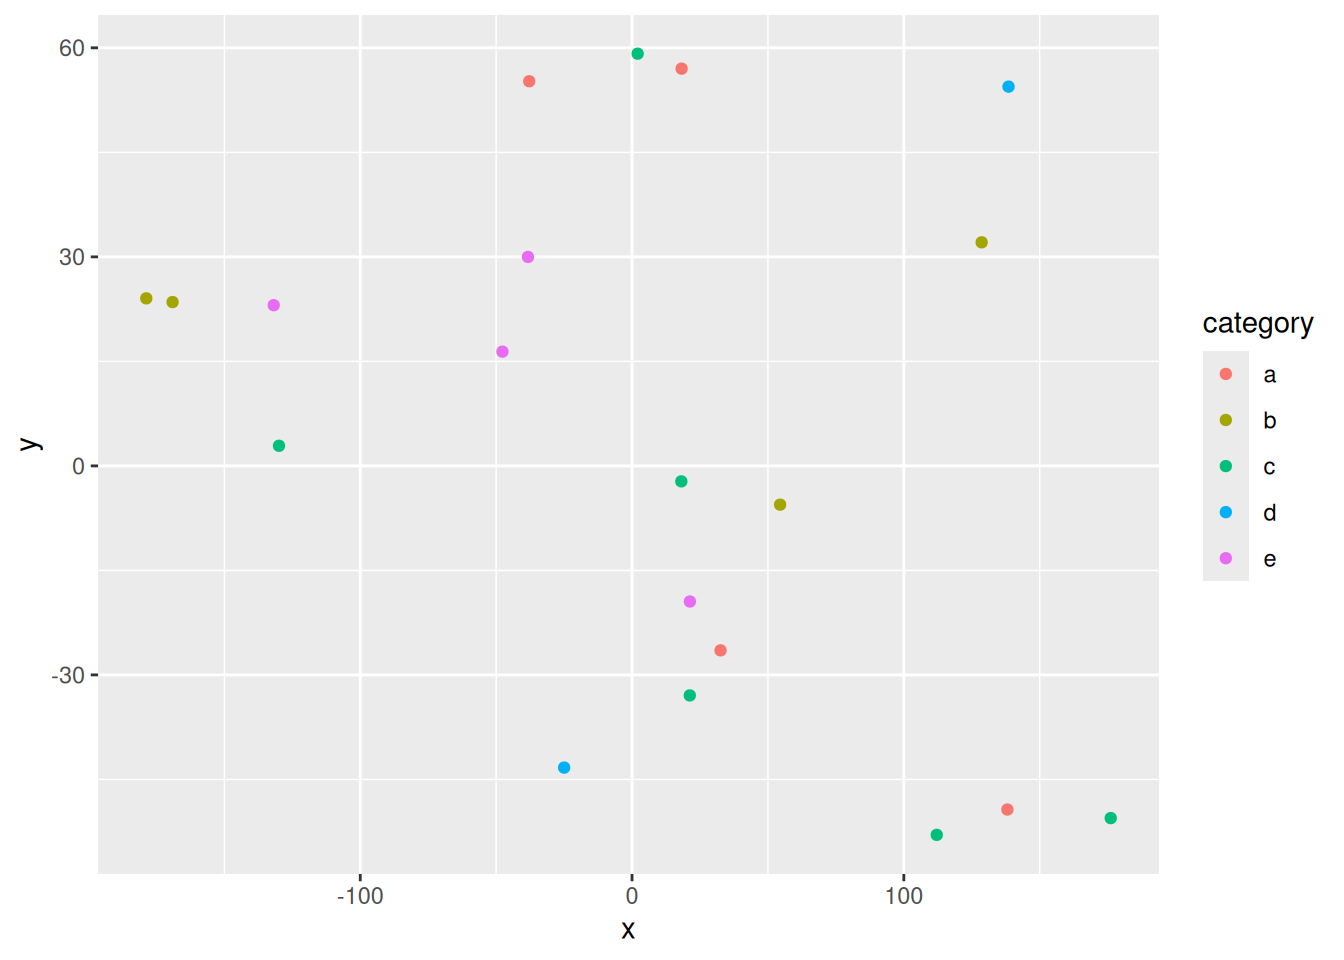
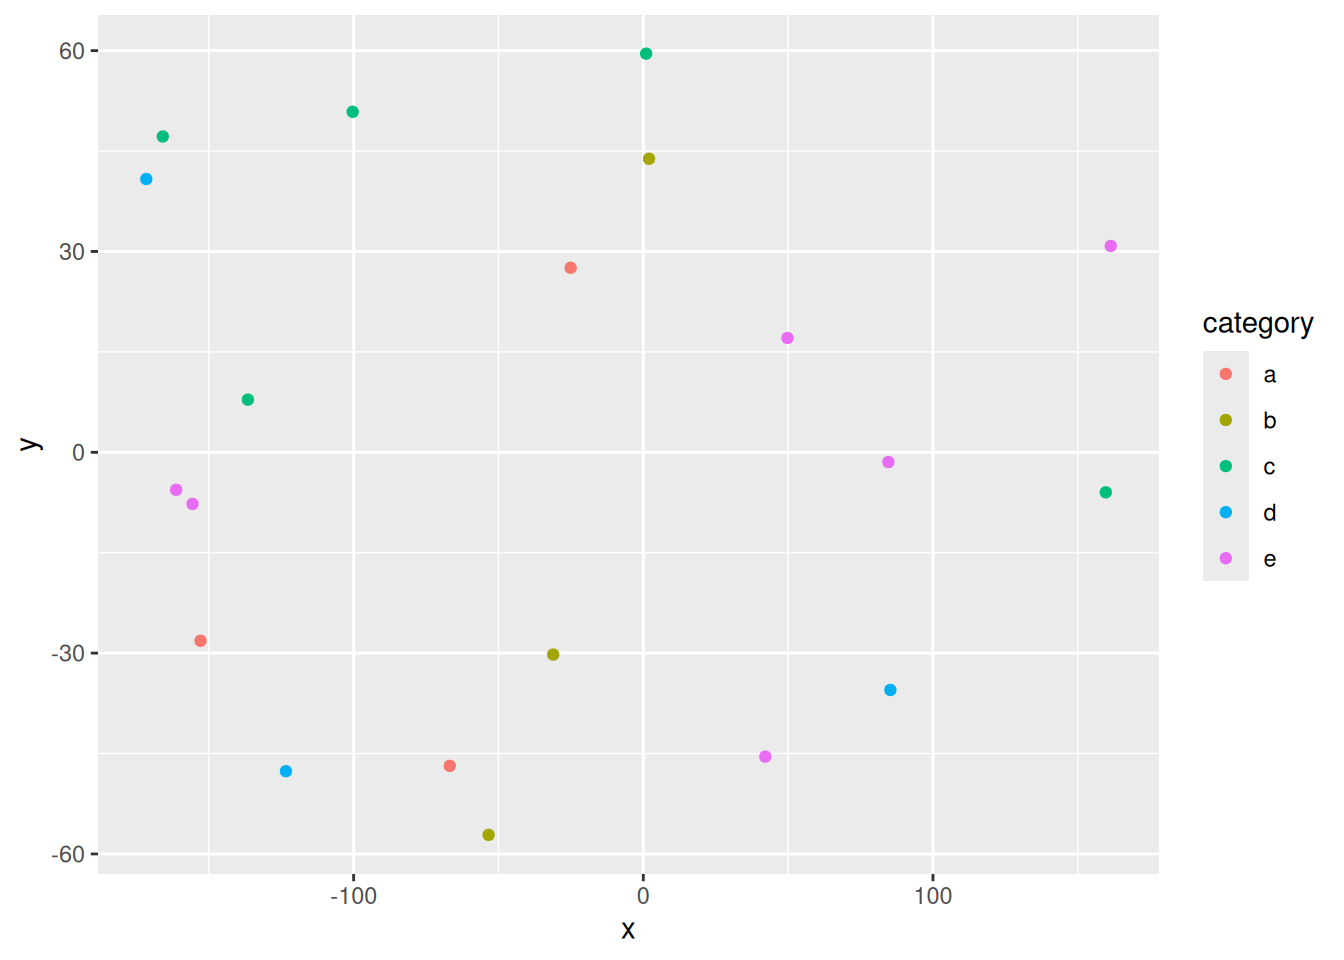
Built site for gh-pages

diff --git a/index.html b/index.html
@@ -272,74 +272,74 @@ pre > code.sourceCode > span > a:first-child::before { text-decoration: underlin
 </thead>
 <tbody>
 <tr class="odd">
-<td style="text-align: center;">-131.85</td>
-<td style="text-align: center;">23.06</td>
-<td style="text-align: center;">11.13</td>
-<td style="text-align: center;">e</td>
-<td style="text-align: center;">1.22</td>
+<td style="text-align: center;">-25.08</td>
+<td style="text-align: center;">27.56</td>
+<td style="text-align: center;">7.43</td>
+<td style="text-align: center;">a</td>
+<td style="text-align: center;">-0.61</td>
 </tr>
 <tr class="even">
-<td style="text-align: center;">128.64</td>
-<td style="text-align: center;">32.08</td>
-<td style="text-align: center;">18.22</td>
+<td style="text-align: center;">-165.89</td>
+<td style="text-align: center;">47.17</td>
+<td style="text-align: center;">10.77</td>
+<td style="text-align: center;">c</td>
+<td style="text-align: center;">-0.45</td>
+</tr>
+<tr class="odd">
+<td style="text-align: center;">1.98</td>
+<td style="text-align: center;">43.85</td>
+<td style="text-align: center;">15.05</td>
 <td style="text-align: center;">b</td>
-<td style="text-align: center;">0.11</td>
-</tr>
-<tr class="odd">
-<td style="text-align: center;">-37.83</td>
-<td style="text-align: center;">55.21</td>
-<td style="text-align: center;">18.93</td>
-<td style="text-align: center;">a</td>
-<td style="text-align: center;">-1.45</td>
+<td style="text-align: center;">0.93</td>
 </tr>
 <tr class="even">
-<td style="text-align: center;">21.28</td>
-<td style="text-align: center;">-19.47</td>
-<td style="text-align: center;">11.65</td>
+<td style="text-align: center;">-155.63</td>
+<td style="text-align: center;">-7.72</td>
+<td style="text-align: center;">19.42</td>
 <td style="text-align: center;">e</td>
-<td style="text-align: center;">-0.93</td>
+<td style="text-align: center;">0.73</td>
 </tr>
 <tr class="odd">
-<td style="text-align: center;">112.12</td>
-<td style="text-align: center;">-52.96</td>
-<td style="text-align: center;">16.13</td>
-<td style="text-align: center;">c</td>
-<td style="text-align: center;">-0.49</td>
+<td style="text-align: center;">42.11</td>
+<td style="text-align: center;">-45.47</td>
+<td style="text-align: center;">10.19</td>
+<td style="text-align: center;">e</td>
+<td style="text-align: center;">1.56</td>
 </tr>
 <tr class="even">
-<td style="text-align: center;">18.13</td>
-<td style="text-align: center;">-2.23</td>
-<td style="text-align: center;">19.97</td>
-<td style="text-align: center;">c</td>
-<td style="text-align: center;">-1.22</td>
+<td style="text-align: center;">161.37</td>
+<td style="text-align: center;">30.82</td>
+<td style="text-align: center;">15.82</td>
+<td style="text-align: center;">e</td>
+<td style="text-align: center;">-1.23</td>
 </tr>
 <tr class="odd">
-<td style="text-align: center;">32.57</td>
-<td style="text-align: center;">-26.48</td>
-<td style="text-align: center;">7.41</td>
+<td style="text-align: center;">0.99</td>
+<td style="text-align: center;">59.54</td>
+<td style="text-align: center;">10.26</td>
+<td style="text-align: center;">c</td>
+<td style="text-align: center;">0.79</td>
+</tr>
+<tr class="even">
+<td style="text-align: center;">-66.81</td>
+<td style="text-align: center;">-46.84</td>
+<td style="text-align: center;">9.79</td>
 <td style="text-align: center;">a</td>
-<td style="text-align: center;">-1.35</td>
-</tr>
-<tr class="even">
-<td style="text-align: center;">18.24</td>
-<td style="text-align: center;">57.02</td>
-<td style="text-align: center;">8.14</td>
-<td style="text-align: center;">a</td>
-<td style="text-align: center;">-0.98</td>
+<td style="text-align: center;">-0.70</td>
 </tr>
 <tr class="odd">
-<td style="text-align: center;">21.25</td>
-<td style="text-align: center;">-32.94</td>
-<td style="text-align: center;">19.77</td>
+<td style="text-align: center;">-136.50</td>
+<td style="text-align: center;">7.86</td>
+<td style="text-align: center;">5.68</td>
 <td style="text-align: center;">c</td>
-<td style="text-align: center;">-1.75</td>
+<td style="text-align: center;">1.11</td>
 </tr>
 <tr class="even">
-<td style="text-align: center;">-169.05</td>
-<td style="text-align: center;">23.51</td>
-<td style="text-align: center;">8.37</td>
-<td style="text-align: center;">b</td>
-<td style="text-align: center;">-1.00</td>
+<td style="text-align: center;">84.62</td>
+<td style="text-align: center;">-1.46</td>
+<td style="text-align: center;">6.76</td>
+<td style="text-align: center;">e</td>
+<td style="text-align: center;">-1.03</td>
 </tr>
 </tbody>
 </table>
@@ -359,8 +359,8 @@ pre > code.sourceCode > span > a:first-child::before { text-decoration: underlin
 <span id="cb5-4"><a href="#cb5-4" aria-hidden="true" tabindex="-1"></a>  <span class="fu">addPopups</span>(<span class="sc">~</span>x[<span class="dv">2</span>], <span class="sc">~</span>y[<span class="dv">2</span>], <span class="st">"Random popup"</span>)</span>
 <span id="cb5-5"><a href="#cb5-5" aria-hidden="true" tabindex="-1"></a>m  <span class="co"># a map with the default OSM tile layer</span></span></code></pre></div><button title="Copy to Clipboard" class="code-copy-button"><i class="bi"></i></button></div>
 <div class="cell-output-display">
-<div class="leaflet html-widget html-fill-item" id="htmlwidget-d31bb03b7f5c28f23ae8" style="width:100%;height:325px;"></div>
-<script type="application/json" data-for="htmlwidget-d31bb03b7f5c28f23ae8">{"x":{"options":{"crs":{"crsClass":"L.CRS.EPSG3857","code":null,"proj4def":null,"projectedBounds":null,"options":{}}},"calls":[{"method":"addTiles","args":["https://{s}.tile.openstreetmap.org/{z}/{x}/{y}.png",null,null,{"minZoom":0,"maxZoom":18,"tileSize":256,"subdomains":"abc","errorTileUrl":"","tms":false,"noWrap":false,"zoomOffset":0,"zoomReverse":false,"opacity":1,"zIndex":1,"detectRetina":false,"attribution":"&copy; <a href=\"https://openstreetmap.org/copyright/\">OpenStreetMap<\/a>,  <a href=\"https://opendatacommons.org/licenses/odbl/\">ODbL<\/a>"}]},{"method":"addCircleMarkers","args":[[23.06371587328613,32.08479294553399,55.20536706782877,-19.46608850732446,-52.95915900729597,-2.227110229432583,-26.47695447318256,57.01514999382198,-32.94412957504392,23.51152838207781,-49.32183229364455,-50.55359738878906,24.04530708678067,29.98634931631386,-5.564755909144878,2.885118518024683,-43.30382030457258,54.43049976602197,16.39778841286898,59.16256248950958],[-131.8506046570837,128.6434728372842,-37.83425029367208,21.28122182562947,112.122907647863,18.13488109968603,32.56790505722165,18.24389168992639,21.2504216004163,-169.0537571534514,138.1071497127414,176.1267823074013,-178.7291242741048,-38.30682794563472,54.48679508641362,-129.9058887083083,-24.98755683191121,138.5228328499943,-47.68095910549164,2.063446110114455],[11.13467626622878,18.21933649363928,18.93066219752654,11.64959506713785,16.13329747691751,19.96796255698428,7.410155247198418,8.137342787813395,19.77110094972886,8.371010844130069,10.84383487817831,16.21517987339757,16.89378475421108,5.518398317508399,8.67761425091885,9.457566067576408,10.47824750537984,18.60225093667395,12.33177521731704,17.87035307730548],null,null,{"interactive":true,"className":"","stroke":true,"color":["e","b","a","e","c","c","a","a","c","b","a","c","b","e","b","c","d","d","e","c"],"weight":5,"opacity":0.5,"fill":true,"fillColor":["e","b","a","e","c","c","a","a","c","b","a","c","b","e","b","c","d","d","e","c"],"fillOpacity":0.2},null,null,null,null,null,{"interactive":false,"permanent":false,"direction":"auto","opacity":1,"offset":[0,0],"textsize":"10px","textOnly":false,"className":"","sticky":true},null]},{"method":"addPopups","args":[32.08479294553399,128.6434728372842,"Random popup",null,null,{"maxWidth":300,"minWidth":50,"autoPan":true,"keepInView":false,"closeButton":true,"className":""}]}],"limits":{"lat":[-52.95915900729597,59.16256248950958],"lng":[-178.7291242741048,176.1267823074013]}},"evals":[],"jsHooks":[]}</script>
+<div class="leaflet html-widget html-fill-item" id="htmlwidget-c1a61ec2214e100b7185" style="width:100%;height:325px;"></div>
+<script type="application/json" data-for="htmlwidget-c1a61ec2214e100b7185">{"x":{"options":{"crs":{"crsClass":"L.CRS.EPSG3857","code":null,"proj4def":null,"projectedBounds":null,"options":{}}},"calls":[{"method":"addTiles","args":["https://{s}.tile.openstreetmap.org/{z}/{x}/{y}.png",null,null,{"minZoom":0,"maxZoom":18,"tileSize":256,"subdomains":"abc","errorTileUrl":"","tms":false,"noWrap":false,"zoomOffset":0,"zoomReverse":false,"opacity":1,"zIndex":1,"detectRetina":false,"attribution":"&copy; <a href=\"https://openstreetmap.org/copyright/\">OpenStreetMap<\/a>,  <a href=\"https://opendatacommons.org/licenses/odbl/\">ODbL<\/a>"}]},{"method":"addCircleMarkers","args":[[27.56255571730435,47.17234793119133,43.84803123772144,-7.718574022874236,-45.46632058918476,30.82299758680165,59.54496405087411,-46.83715383522213,7.86453802138567,-1.456379536539316,17.07871687598526,40.82028483040631,-35.50639632157981,-28.16106861457229,-57.15129168704152,-47.63958720490336,-5.987393567338586,-30.21791447885334,-5.603059083223343,50.85841882042587],[-25.07649569772184,-165.889402879402,1.980261169373989,-155.6296290177852,42.1140892803669,161.3667668960989,0.9874567575752735,-66.80742303840816,-136.4971252530813,84.61597384884953,49.78673751465976,-171.5851801726967,85.29730615206063,-152.8586964681745,-53.4154840093106,-123.3650065306574,159.6660692710429,-31.10585463233292,-161.2817010562867,-100.3337257169187],[7.426088857464492,10.77378257061355,15.05445398506708,19.41859619808383,10.18644456635229,15.8226355665829,10.26039336924441,9.785338512156159,5.682782487710938,6.758359806844965,6.817110591800883,13.82759276777506,7.823722767643631,10.86179776815698,11.46041808300652,8.85816102148965,12.95428334153257,11.78296508500353,16.68109899037518,6.419207940343767],null,null,{"interactive":true,"className":"","stroke":true,"color":["a","c","b","e","e","e","c","a","c","e","e","d","d","a","b","d","c","b","e","c"],"weight":5,"opacity":0.5,"fill":true,"fillColor":["a","c","b","e","e","e","c","a","c","e","e","d","d","a","b","d","c","b","e","c"],"fillOpacity":0.2},null,null,null,null,null,{"interactive":false,"permanent":false,"direction":"auto","opacity":1,"offset":[0,0],"textsize":"10px","textOnly":false,"className":"","sticky":true},null]},{"method":"addPopups","args":[47.17234793119133,-165.889402879402,"Random popup",null,null,{"maxWidth":300,"minWidth":50,"autoPan":true,"keepInView":false,"closeButton":true,"className":""}]}],"limits":{"lat":[-57.15129168704152,59.54496405087411],"lng":[-171.5851801726967,161.3667668960989]}},"evals":[],"jsHooks":[]}</script>
 <p>Map of completely random data</p>
 </div>
 </div>
@@ -383,8 +383,8 @@ pre > code.sourceCode > span > a:first-child::before { text-decoration: underlin
 <span id="cb7-2"><a href="#cb7-2" aria-hidden="true" tabindex="-1"></a><span class="fu">dygraph</span>(nhtemp, <span class="at">main =</span> <span class="st">"New Haven Temperatures"</span>) <span class="sc">|&gt;</span> </span>
 <span id="cb7-3"><a href="#cb7-3" aria-hidden="true" tabindex="-1"></a>  <span class="fu">dyRangeSelector</span>(<span class="at">dateWindow =</span> <span class="fu">c</span>(<span class="st">"1920-01-01"</span>, <span class="st">"1960-01-01"</span>)) </span></code></pre></div><button title="Copy to Clipboard" class="code-copy-button"><i class="bi"></i></button></div>
 <div class="cell-output-display">
-<div class="dygraphs html-widget html-fill-item" id="htmlwidget-e323e79760a3ff25c2ce" style="width:100%;height:464px;"></div>
-<script type="application/json" data-for="htmlwidget-e323e79760a3ff25c2ce">{"x":{"attrs":{"title":"New Haven Temperatures","labels":["year","V1"],"legend":"auto","retainDateWindow":false,"axes":{"x":{"pixelsPerLabel":60}},"showRangeSelector":true,"dateWindow":["1920-01-01T00:00:00.000Z","1960-01-01T00:00:00.000Z"],"rangeSelectorHeight":40,"rangeSelectorPlotFillColor":" #A7B1C4","rangeSelectorPlotStrokeColor":"#808FAB","interactionModel":"Dygraph.Interaction.defaultModel"},"scale":"yearly","annotations":[],"shadings":[],"events":[],"format":"date","data":[["1912-01-01T00:00:00.000Z","1913-01-01T00:00:00.000Z","1914-01-01T00:00:00.000Z","1915-01-01T00:00:00.000Z","1916-01-01T00:00:00.000Z","1917-01-01T00:00:00.000Z","1918-01-01T00:00:00.000Z","1919-01-01T00:00:00.000Z","1920-01-01T00:00:00.000Z","1921-01-01T00:00:00.000Z","1922-01-01T00:00:00.000Z","1923-01-01T00:00:00.000Z","1924-01-01T00:00:00.000Z","1925-01-01T00:00:00.000Z","1926-01-01T00:00:00.000Z","1927-01-01T00:00:00.000Z","1928-01-01T00:00:00.000Z","1929-01-01T00:00:00.000Z","1930-01-01T00:00:00.000Z","1931-01-01T00:00:00.000Z","1932-01-01T00:00:00.000Z","1933-01-01T00:00:00.000Z","1934-01-01T00:00:00.000Z","1935-01-01T00:00:00.000Z","1936-01-01T00:00:00.000Z","1937-01-01T00:00:00.000Z","1938-01-01T00:00:00.000Z","1939-01-01T00:00:00.000Z","1940-01-01T00:00:00.000Z","1941-01-01T00:00:00.000Z","1942-01-01T00:00:00.000Z","1943-01-01T00:00:00.000Z","1944-01-01T00:00:00.000Z","1945-01-01T00:00:00.000Z","1946-01-01T00:00:00.000Z","1947-01-01T00:00:00.000Z","1948-01-01T00:00:00.000Z","1949-01-01T00:00:00.000Z","1950-01-01T00:00:00.000Z","1951-01-01T00:00:00.000Z","1952-01-01T00:00:00.000Z","1953-01-01T00:00:00.000Z","1954-01-01T00:00:00.000Z","1955-01-01T00:00:00.000Z","1956-01-01T00:00:00.000Z","1957-01-01T00:00:00.000Z","1958-01-01T00:00:00.000Z","1959-01-01T00:00:00.000Z","1960-01-01T00:00:00.000Z","1961-01-01T00:00:00.000Z","1962-01-01T00:00:00.000Z","1963-01-01T00:00:00.000Z","1964-01-01T00:00:00.000Z","1965-01-01T00:00:00.000Z","1966-01-01T00:00:00.000Z","1967-01-01T00:00:00.000Z","1968-01-01T00:00:00.000Z","1969-01-01T00:00:00.000Z","1970-01-01T00:00:00.000Z","1971-01-01T00:00:00.000Z"],[49.9,52.3,49.4,51.1,49.4,47.9,49.8,50.9,49.3,51.9,50.8,49.6,49.3,50.6,48.4,50.7,50.9,50.6,51.5,52.8,51.8,51.1,49.8,50.2,50.4,51.6,51.8,50.9,48.8,51.7,51,50.6,51.7,51.5,52.1,51.3,51,54,51.4,52.7,53.1,54.6,52,52,50.9,52.6,50.2,52.6,51.6,51.9,50.5,50.9,51.7,51.4,51.7,50.8,51.9,51.8,51.9,53]]},"evals":["attrs.interactionModel"],"jsHooks":[]}</script>
+<div class="dygraphs html-widget html-fill-item" id="htmlwidget-02ceecce4d5398598461" style="width:100%;height:464px;"></div>
+<script type="application/json" data-for="htmlwidget-02ceecce4d5398598461">{"x":{"attrs":{"title":"New Haven Temperatures","labels":["year","V1"],"legend":"auto","retainDateWindow":false,"axes":{"x":{"pixelsPerLabel":60}},"showRangeSelector":true,"dateWindow":["1920-01-01T00:00:00.000Z","1960-01-01T00:00:00.000Z"],"rangeSelectorHeight":40,"rangeSelectorPlotFillColor":" #A7B1C4","rangeSelectorPlotStrokeColor":"#808FAB","interactionModel":"Dygraph.Interaction.defaultModel"},"scale":"yearly","annotations":[],"shadings":[],"events":[],"format":"date","data":[["1912-01-01T00:00:00.000Z","1913-01-01T00:00:00.000Z","1914-01-01T00:00:00.000Z","1915-01-01T00:00:00.000Z","1916-01-01T00:00:00.000Z","1917-01-01T00:00:00.000Z","1918-01-01T00:00:00.000Z","1919-01-01T00:00:00.000Z","1920-01-01T00:00:00.000Z","1921-01-01T00:00:00.000Z","1922-01-01T00:00:00.000Z","1923-01-01T00:00:00.000Z","1924-01-01T00:00:00.000Z","1925-01-01T00:00:00.000Z","1926-01-01T00:00:00.000Z","1927-01-01T00:00:00.000Z","1928-01-01T00:00:00.000Z","1929-01-01T00:00:00.000Z","1930-01-01T00:00:00.000Z","1931-01-01T00:00:00.000Z","1932-01-01T00:00:00.000Z","1933-01-01T00:00:00.000Z","1934-01-01T00:00:00.000Z","1935-01-01T00:00:00.000Z","1936-01-01T00:00:00.000Z","1937-01-01T00:00:00.000Z","1938-01-01T00:00:00.000Z","1939-01-01T00:00:00.000Z","1940-01-01T00:00:00.000Z","1941-01-01T00:00:00.000Z","1942-01-01T00:00:00.000Z","1943-01-01T00:00:00.000Z","1944-01-01T00:00:00.000Z","1945-01-01T00:00:00.000Z","1946-01-01T00:00:00.000Z","1947-01-01T00:00:00.000Z","1948-01-01T00:00:00.000Z","1949-01-01T00:00:00.000Z","1950-01-01T00:00:00.000Z","1951-01-01T00:00:00.000Z","1952-01-01T00:00:00.000Z","1953-01-01T00:00:00.000Z","1954-01-01T00:00:00.000Z","1955-01-01T00:00:00.000Z","1956-01-01T00:00:00.000Z","1957-01-01T00:00:00.000Z","1958-01-01T00:00:00.000Z","1959-01-01T00:00:00.000Z","1960-01-01T00:00:00.000Z","1961-01-01T00:00:00.000Z","1962-01-01T00:00:00.000Z","1963-01-01T00:00:00.000Z","1964-01-01T00:00:00.000Z","1965-01-01T00:00:00.000Z","1966-01-01T00:00:00.000Z","1967-01-01T00:00:00.000Z","1968-01-01T00:00:00.000Z","1969-01-01T00:00:00.000Z","1970-01-01T00:00:00.000Z","1971-01-01T00:00:00.000Z"],[49.9,52.3,49.4,51.1,49.4,47.9,49.8,50.9,49.3,51.9,50.8,49.6,49.3,50.6,48.4,50.7,50.9,50.6,51.5,52.8,51.8,51.1,49.8,50.2,50.4,51.6,51.8,50.9,48.8,51.7,51,50.6,51.7,51.5,52.1,51.3,51,54,51.4,52.7,53.1,54.6,52,52,50.9,52.6,50.2,52.6,51.6,51.9,50.5,50.9,51.7,51.4,51.7,50.8,51.9,51.8,51.9,53]]},"evals":["attrs.interactionModel"],"jsHooks":[]}</script>
 </div>
 </div>
 </section>
